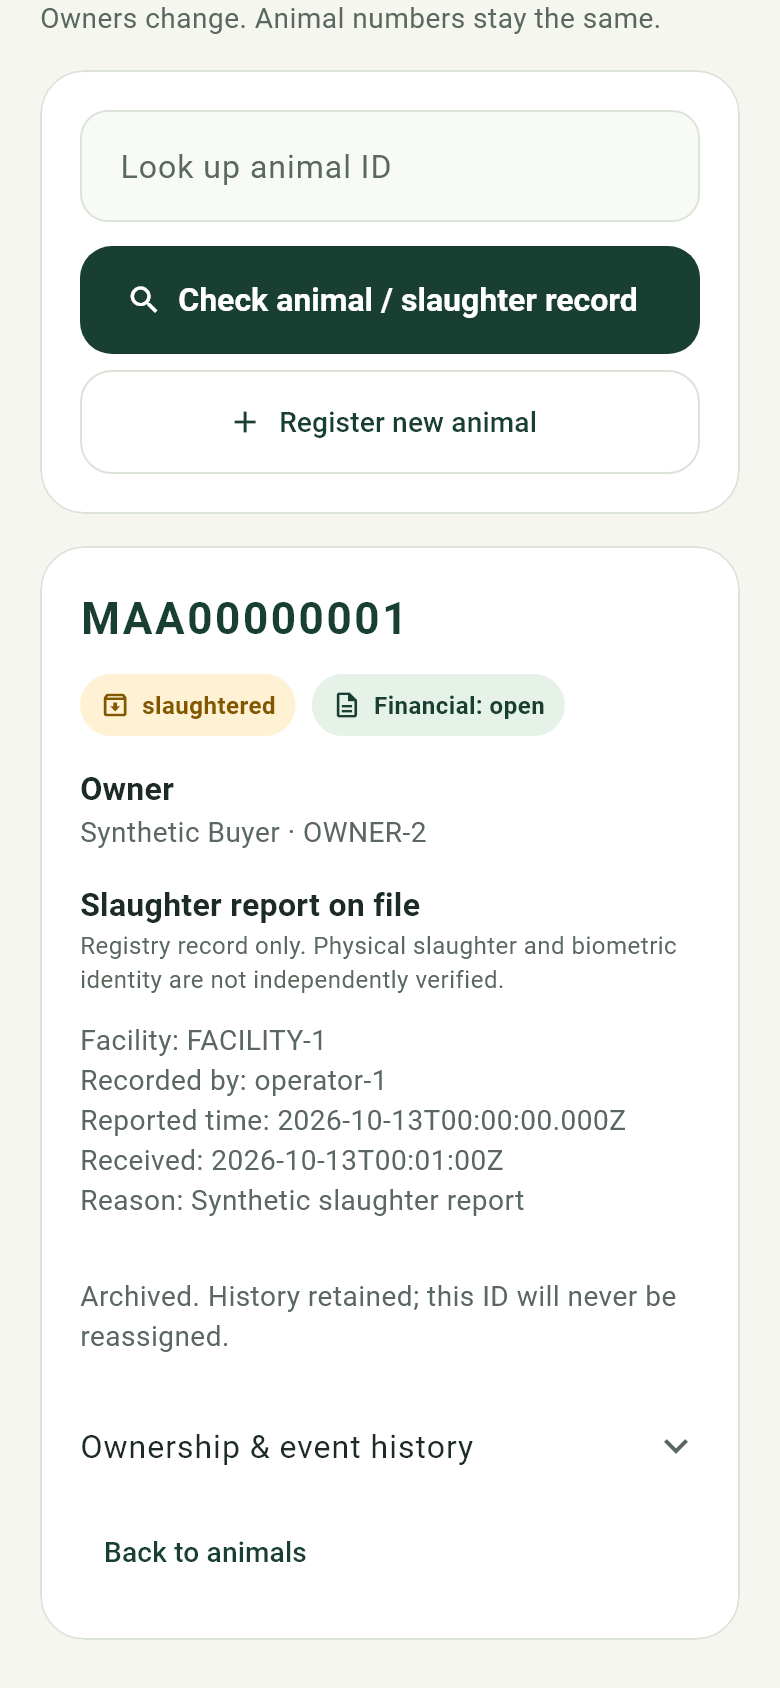
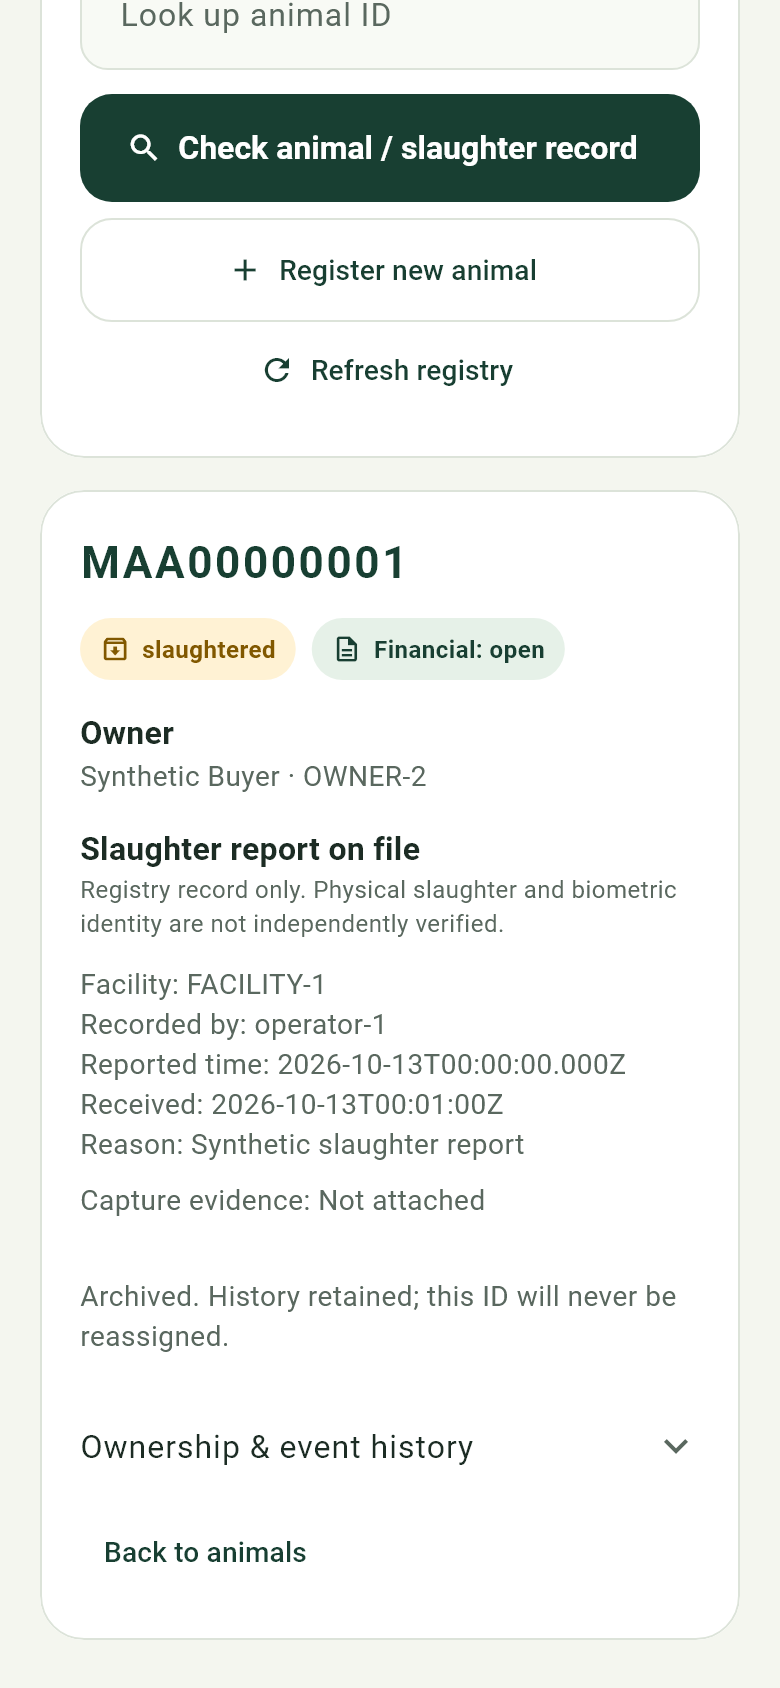
Record completed MVP audit, recovery evidence and remaining field data gates

diff --git a/PROGRESS.md b/PROGRESS.md
@@ -12,7 +12,7 @@ Last live repository inspection: 2026-10-14, Asia/Tashkent. Project root: D:\Cod
 
 **Mobile artifact:** final debug APK built in 30.1 seconds after a preceding 34.7-second build, SHA-256 f174e598090052164af0be2746b029b60b56be672fbc9c5f32c3f29cf5669b77. Final brace/style correction passed analyze; no configured operator token. SDK 3.47.5 and kotlin.incremental=false unchanged. Journal guard is shared within the app's UI isolate; backend idempotency/counters remain authoritative across clients. Backup/link guards reduce accidental redirection, not protection against a privileged filesystem/database administrator.
 
-**Exact stop / next action:** defined data-independent MVP/groundwork and all confirmed findings from this pass are complete; local backend/mobile/docs milestones follow. Do not claim every future phase or 100% real-world reliability is finished. See docs/MVP_COMPLETION_2026-10-14.md. Before real new IDs, back up/review then rebuild normal backend/configs together and run the operator-configured app using README. Native phone camera/GPS/keyboard/storage/share/registry/history/attachment remains an external test blocker until repaired/replacement device; no device availability update received. Real reviewed identity sessions/muzzle checkpoint, genuine/attack videos, measured-animal geometry/weights and actual market observations gate production matching/liveness/weight/valuation confidence; sheep data/pilot remain disabled. Existing math, admin price/status/review endpoints and advisory spoof/GPS code are built, not calibrated proof. Corrected stale DATA_REQUIREMENTS statements about authentication and quote implementation. No unresolved routine architecture question or automatic push; resume empirical evaluation when inputs arrive.
+**Exact stop / next action:** defined data-independent MVP/groundwork and all confirmed findings from this pass are complete; local code milestones 5dd1274 (backend/storage) and 8d82675 (mobile); final documentation commit follows. Do not claim every future phase or 100% real-world reliability is finished. See docs/MVP_COMPLETION_2026-10-14.md. Before real new IDs, back up/review then rebuild normal backend/configs together and run the operator-configured app using README. Native phone camera/GPS/keyboard/storage/share/registry/history/attachment remains an external test blocker until repaired/replacement device; no device availability update received. Real reviewed identity sessions/muzzle checkpoint, genuine/attack videos, measured-animal geometry/weights and actual market observations gate production matching/liveness/weight/valuation confidence; sheep data/pilot remain disabled. Existing math, admin price/status/review endpoints and advisory spoof/GPS code are built, not calibrated proof. Corrected stale DATA_REQUIREMENTS statements about authentication and quote implementation. No unresolved routine architecture question or automatic push; resume empirical evaluation when inputs arrive.
 
 ## Previous letter-series milestone
 
@@ -45,13 +45,16 @@ Last live repository inspection: 2026-10-14, Asia/Tashkent. Project root: D:\Cod
 **Exact next action / external blockers:** before new real numbering, back up the normal backend, review then rebuild from backend/ with docker compose up --build -d (startup applies 0005). Rebuild/run the operator-configured app using README. On a repaired/replacement phone verify native camera/GPS/keyboard and registry creation/acknowledgement, offline restart/retry, owner changes, death/slaughter archive lookup and ZIP export/share on synthetic test records. Real phone remains unavailable/unverified; this is external, not a known code blocker. Real cattle dataset/checkpoint/calibration still gates biometric matching, actual slaughter/identity authenticity, liveness and weight accuracy. Guide now maps server IDs to separate farm cohort slots; preserve all existing labels. No routine architectural question is pending. Requested code work finished; no automatic push or new model work.
 
 
-## Git evidence — letter-series code milestones, before final documentation commit
+## Git evidence — MVP completion code milestones, before final documentation commit
 
-Live inspection: 2026-10-14. HEAD bba7a96; pending tracked changes are requested documentation/previews only. The final documentation commit follows this snapshot. Cached origin/main remote-only/local-only counts: 0/14; no new fetch or push. Inspect live status/log at the next session.
+Live inspection: 2026-10-14. HEAD 8d82675; pending tracked changes are the requested documentation/previews only. Final documentation commit follows. Cached origin/main remote-only/local-only counts: 0/17; no new fetch or push. Inspect live status/log next session.
 
 Real git log --oneline -20 output:
 
 ```text
+8d82675 Complete registry lookup, evidence attachment, history paging and phone journal guards
+5dd1274 Read coherent registry snapshots and prevent redirected capture writes
+3b18175 Document series rollover, legacy compatibility and verified recovery
 bba7a96 Display series IDs and preserve legacy mobile journals and cached rules
 35efa25 Allocate fixed-width animal letter series without resetting legacy counters
 2e2bd37 Record fixed-length letter series numbering proposal and current limits
@@ -69,9 +72,6 @@ fff4799 Reject exact decoded-pixel duplicates in reviewed research datasets
 eaaf857 Clarify published repair milestone status
 ad5f754 Record authorized GitHub publication of audit repairs
 b5da129 Record verified audit repairs and PostgreSQL recovery proof
-0ba8dd7 Measure mobile exposure before resizing and share clipping regression fixtures
-de5e76d Isolate corrupt offline journals and validate capture labels before saving
-8c722c2 Reject invalid contour geometry, truncated research pixels and unsafe UTC times
 ```
 
 Real git remote -v output:

diff --git a/docs/MVP_COMPLETION_2026-10-14.md b/docs/MVP_COMPLETION_2026-10-14.md
@@ -1,0 +1,61 @@
+# Data-independent MVP completion audit
+
+Reviewed the live roadmap, persistent progress and backend/mobile collection,
+quality, detection, authentication, provenance, registry and recovery code. The
+review found specific remaining registry/storage defects and workflow gaps; these
+are repaired. This is completion of the defined MVP and existing groundwork,
+not a claim that every future feature or real-world accuracy has been established.
+
+| Finding | Completed change | Evidence |
+| --- | --- | --- |
+| Old animal/slaughter result remained after a failed lookup | Clear identity/report/history before each lookup; fail closed on wrong-ID responses. Add manual registry refresh. | Widget regression verifies old positive slaughter result disappears after offline lookup. |
+| Version/owner/lifecycle were read separately; list used per-row queries | One joined statement snapshot for record/profile/terminal event; one query per list page/detail. Mobile reads the animal/report from one response. | API statement-count/coherence test; 200 real PostgreSQL HTTP reads during 30 owner changes, with actual overlap and no torn version/owner. |
+| Separate mobile journal objects could issue simultaneous intents | Canonical phone-directory guard across journal instances; serialization includes submission, retry and acknowledgement. Safe key/link checks preserve evidence. | Two instances with alias paths cannot submit/retry concurrently; the next attempt recovers the existing ID. |
+| Phone terminal form could not attach uploaded scan evidence | Optional uploaded capture UUID, validation, immutable retry, selectable recorded UUID/hash. | Widget checks invalid UUID/no request, normalized valid UUID and lost-reply replay; API rejects wrong animal/unauthorized capture without closing/version change. |
+| History stopped at 50 records | Previous/next history pages, page indicator and retained page with explicit failed-read notice. | 51-event widget case reaches page two and recovers after failure. |
+| Linked storage directories could redirect image writes | Reject symlinks/junctions and resolved escapes before creating files; recheck after directory creation. | Real Windows junction tests for outside storage and an alias within storage; no files created at destination. |
+
+339 distinct tests passed: 198 backend/tooling, 48 research, 93 Flutter. Ruff and
+Flutter analysis clean. The full Python run passed 246 cases; the only warning is
+the existing upstream TestClient/httpx deprecation. No new dependency, schema,
+model, sheep activation, cloud service or CI/CD was introduced.
+
+Final Android debug APK built in 30.1 seconds, SHA-256
[1 lines of base64/hex data omitted]
+The preceding build took 34.7 seconds; the final build follows an analyzer-only
+brace correction. No operator token configured; use README defines for runtime.
+Host mock renders do not replace physical Android/iOS camera/GPS/share checks.
+
+Runtime evidence is retained under ignored data/reliability/evidence:
+registry-snapshot-20261014.json (200 reads/30 writes),
+registry-completion-20261014.json (registry/QC/upload/attachment), and
+registry-final-storage-20261014.json (final source/storage/upload check).
+Backups/restores preserve originals, metadata, IDs/counters, owners and immutable
+audit/receipts. No normal collection stack or real animal records were changed.
+
+Final bundle data/backups/mvp-final-20261014 restored into new
+biolivestock_restore_mvp_final_20261014 and data/restores/mvp-final-20261014.
+Source/clone: 51 profiles, 58 animals, 114 audit events, 91 registry receipts,
+12 captures/11 upload receipts and one counter; all registry/animal/audit contents
+match, and file reconciliation is healthy. Earlier intermediate completion backup
+and clone are retained too. Evidence mvp-final-restore-20261014.json. Both isolated API/database services stopped with exit 0; all volumes, fixtures and backups retained.
+
+## Remaining gates
+
+- A repaired/replacement phone: native permissions, preview/orientation, GPS,
+  keyboard, real photo memory/storage, offline restart/upload, UUID attachment,
+  history, registry acknowledgement and durable ZIP sharing.
+- Independently reviewed real cattle identity/session images and a trained muzzle
+  checkpoint: nose detection accuracy, QC calibration and held-out matching errors.
+- Genuine/attack video labels: reliable liveness and presentation-attack decisions.
+- Measured scale weights/calibrated geometry and actual market observations:
+  estimation error and defensible valuation. Existing formula/price arithmetic is
+  tested; real-world accuracy is unverified.
+- Sheep data/models/calibration and a field pilot remain later and disabled.
+
+Permanent MAA-series numbering, recorded owner/terminal history, authentication,
+quality/cropping plumbing, duplicates review, formula/price groundwork, advisory
+spoof/GPS signals, offline/retry/recovery and minimal admin endpoints are built.
+They do not provide production biometric, legal ownership, independent slaughter
+or liveness proof. No additional model work was started without data. Field
+collection follows DATA_COLLECTION_GUIDE.md; backend/app rebuild follows README.

diff --git a/docs/DATA_REQUIREMENTS.md b/docs/DATA_REQUIREMENTS.md
@@ -8,15 +8,15 @@ The existing Phase 1 capture record has a UTC timestamp and operator ID but no t
 
 ## Phase 3: liveness/anti-spoofing
 
-Initial threat model: printed muzzle photographs, photos/video on a display, reused genuine files submitted directly to the unauthenticated API, and repeated/replayed requests. Camera-only UI cannot establish that an API upload came from a live animal. Evaluate each presentation type, lighting condition and unseen display/camera combination separately. Separate genuine/attack sessions and source animals across training, validation and test; track which genuine source produced each attack to avoid leakage.
+Initial threat model: printed muzzle photographs, photos/video on a display, reused genuine files submitted with a misused or compromised operator credential, and repeated/replayed requests. Camera-only UI cannot establish that an API upload came from a live animal. Evaluate each presentation type, lighting condition and unseen display/camera combination separately. Separate genuine/attack sessions and source animals across training, validation and test; track which genuine source produced each attack to avoid leakage.
 
-Collect consented genuine sessions and controlled presentation-attack examples using `liveness_annotations.csv`. Record medium, replay source, session, device, lighting and independent label. Report attack acceptance and genuine rejection at the same frozen threshold. Single-image texture checks and future motion/challenge checks have different acquisition requirements; defer that product choice until attack data reveals the limitations. No liveness detector or “live” flag has been added because measured reliability is a roadmap prerequisite.
+Collect consented genuine sessions and controlled presentation-attack examples using `liveness_annotations.csv`. Record medium, replay source, session, device, lighting and independent label. Report attack acceptance and genuine rejection at the same frozen threshold. Single-image texture checks and future motion/challenge checks have different acquisition requirements; defer that product choice until attack data reveals the limitations. Advisory image/device/GPS heuristics are implemented and tested with synthetic data; no reliable liveness detector or “live” verdict is claimed because measured reliability is a roadmap prerequisite.
 
 ## Phase 4: weight and valuation
 
 Collect full-body reference views paired with actual scale measurements taken close to image acquisition, plus animal/session, camera calibration or reference scale, view, breed, age/sex where known and measurement provenance. Split by animal and acquisition site/session, and evaluate absolute error, systematic bias and interval coverage. Muzzle identity crops alone are not the required weight training inputs. Use `weight_annotations.csv` as a checklist. Do not fabricate weights from IDs or image dimensions.
 
-Valuation needs independently sourced, dated market observations with region, currency, unit, grade and any conversion assumptions, plus validated weight uncertainty. No prices were purchased/fetched or monetary estimates implemented. Paid sources/credentials require Sardorbek; market source selection and model deployment should follow measured usefulness and uncertainty, not an arbitrary coefficient.
+Valuation needs independently sourced, dated market observations with region, currency, unit, grade and any conversion assumptions, plus validated weight uncertainty. No real prices were purchased/fetched. Deterministic formula/yield/price quote arithmetic and an authenticated admin price endpoint are implemented; rates begin unset and synthetic test quotes are not current market valuations. Paid sources/credentials require Sardorbek; market source selection and model deployment should follow measured usefulness and uncertainty, not an arbitrary coefficient.
 
 ## Shared blocking inputs
 

diff --git a/docs/ANIMAL_REGISTRY.md b/docs/ANIMAL_REGISTRY.md
@@ -58,9 +58,13 @@ status remains separate; death/slaughter does not automatically settle a loan/po
   events. GPS is nullable and operator/device supplied, not independent location
   proof. Delayed uploads to an existing archived ID retain evidence without
   reactivating it; the normal registry capture selector offers active records only.
-- Optional API `capture_id` links a matching, permitted scan and stored image hash
-  to a terminal report. The mobile report form does not yet attach that UUID;
-  it records facility/notes/time/GPS. No image-based slaughter verdict is produced.
+- Optional `capture_id` links a matching, permitted scan and stored image hash
+  to a terminal report. In the phone form, paste the **Uploaded capture UUID**
+  from Saved upload receipts; leave blank if no uploaded frame is available.
+  A local request key is not a UUID. The phone validates the shape, normalizes
+  case and keeps that attachment unchanged on retry; the server verifies animal
+  and operator permission. Recorded UUID/hash are selectable in the archived
+  report. No image-based slaughter verdict is produced.
 - Phone ZIP backups include registry requests, acknowledgements and partial writes;
   protect them because owner names and report metadata are sensitive. Save a copy
   outside the app. Desktop recovery preserves evidence; it does not auto-replay
@@ -104,7 +108,7 @@ require `Idempotency-Key` (16–128 ASCII letters/digits/underscores/hyphens).
 | `GET /animals/cattle/{id}` | Current projection, owner, lifecycle and terminal record |
 | `POST /animals/cattle/{id}/owner` | New owner, expected_version, timezone-aware observed_at, nullable GPS, reason |
 | `POST /animals/cattle/{id}/retirement` | Same observation fields + lifecycle; facility_id required for slaughter; optional capture_id |
-| `GET /animals/cattle/{id}/history?limit=50&offset=0` | Immutable events; mobile displays latest 50; API supports paging |
+| `GET /animals/cattle/{id}/history?limit=50&offset=0` | Immutable events; mobile has previous/next pages of 50 |
 | `GET /animals/cattle/{id}/slaughter-check` | Registry report only; biometric/independent verification explicitly false |
 
 Before using new numbering, back up the existing backend using
@@ -114,6 +118,13 @@ only the isolated stack; it did not deploy to the normal collection stack.
 Rebuild the app with the existing README backend/operator defines.
 
 ## Verification — 2026-10-14 series extension
+
+The later [MVP completion audit](MVP_COMPLETION_2026-10-14.md) also repairs
+coherent registry reads, stale lookup cards, cross-instance phone journals,
+capture attachment, history paging and linked storage paths. Lists/details use
+one statement snapshot; a failed lookup clears the previous animal/report.
+**Refresh registry** retries lookup after reconnecting. Completed checks below
+describe the preceding numbering milestone; latest total is 339 passing tests.
 
 194 backend/tooling, 48 research and 88 Flutter host tests passed; Ruff and Flutter
 analysis clean. Cases cover AA/AB and AZ/BA carries, capacity/exhaustion, old config

diff --git a/docs/VALIDATION.md b/docs/VALIDATION.md
@@ -1,5 +1,16 @@
 # Phase 1 validation
 
+## MVP completion audit (2026-10-14, latest)
+
+198 backend/tooling + 48 research + 93 Flutter = 339 distinct cases passed.
+Ruff and Flutter analysis clean; final debug APK built. Regressions cover stale
+lookup clearing, coherent version/owner/lifecycle reads, shared phone journal
+guards, validated/replayed capture UUID attachment, paged history and actual
+Windows junction write rejection. Real PostgreSQL verified 200 concurrent reads
+during 30 owner updates, final pending_model upload/file/hash/terminal attachment,
+and complete isolated restore. Details, hashes, evidence, field limits and next
+actions: [MVP_COMPLETION_2026-10-14.md](MVP_COMPLETION_2026-10-14.md).
+
 ## Fixed-length letter-series numbering (2026-10-14, latest)
 
 194 backend/tooling, 48 research and 88 Flutter tests passed (330 distinct tests);

diff --git a/docs/MOBILE_DESIGN.md b/docs/MOBILE_DESIGN.md
@@ -1,8 +1,8 @@
 # Field capture design — 2026-10-13
 
-**Latest numbering extension (2026-10-14):** 88 full Flutter host tests passed; analyzer clean.
[1 lines of base64/hex data omitted]
-Actual widget previews below are refreshed for four-tab navigation. Permanent-ID
+**Latest MVP completion audit (2026-10-14):** 93 full Flutter host tests passed; analyzer clean.
[1 lines of base64/hex data omitted]
+Actual widget previews below are refreshed for four-tab navigation. Refresh, paged history and optional uploaded UUID evidence are available. Permanent-ID
 dialogs and report previews: [ANIMAL_REGISTRY.md](ANIMAL_REGISTRY.md). These use
 mock records and SDK fonts; physical-device operation remains unverified.
 

diff --git a/README.md b/README.md
@@ -8,6 +8,7 @@ Offline collection/retries and backup/restore commands: [COLLECTION_RELIABILITY.
 Phone ZIP recovery, queue benchmark and dependency pins: [collection improvements](docs/COLLECTION_IMPROVEMENTS_2026-10-13.md).
 Mobile screen design, visual previews and UI checks: [MOBILE_DESIGN.md](docs/MOBILE_DESIGN.md).
 Permanent MAA-series issuance, ownership transfers, death/slaughter archives and report lookup: [ANIMAL_REGISTRY.md](docs/ANIMAL_REGISTRY.md).
+Latest completed fixes, verification and remaining data/device gates: [MVP completion audit](docs/MVP_COMPLETION_2026-10-14.md).
 
 Install Docker Desktop and start its Linux container engine. From PowerShell:
 
